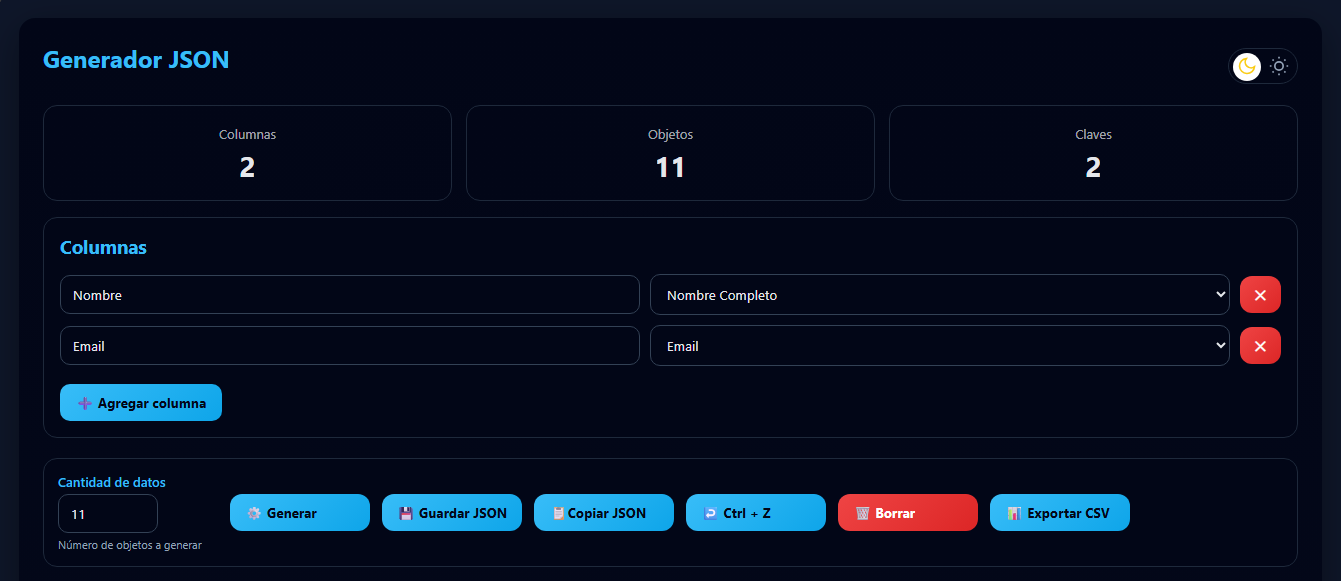
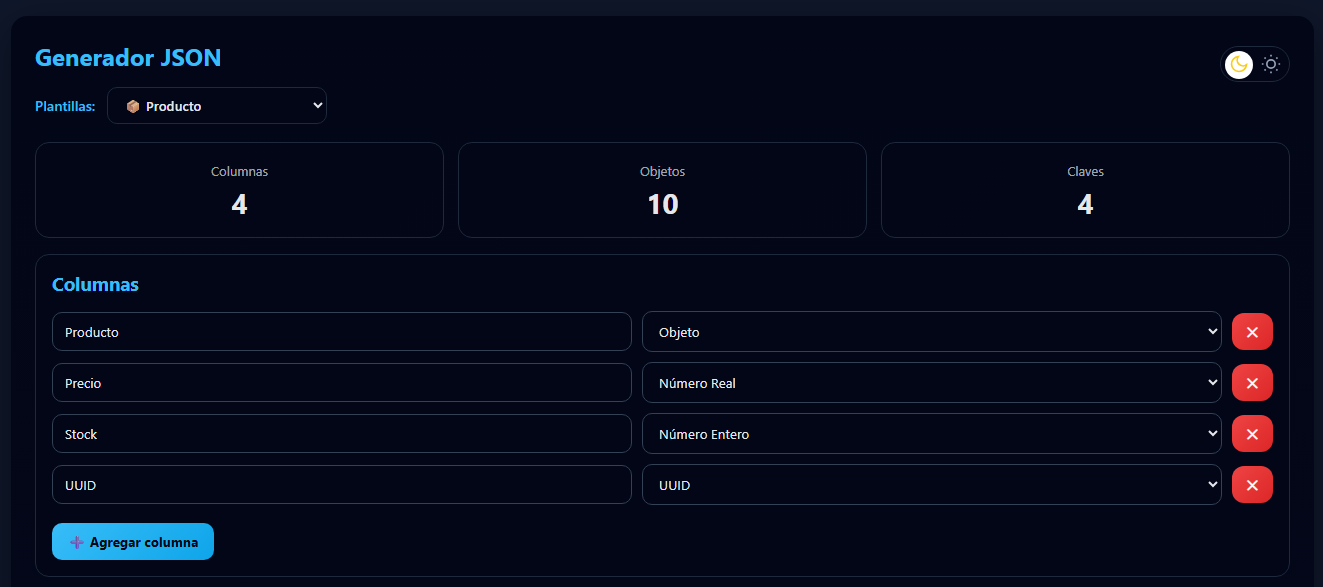
añadidas las plantillas

diff --git a/js/react-app.js b/js/react-app.js
@@ -296,6 +296,28 @@ function Tabla({ data }) {
 }
 
 
+const PLANTILLAS = {
+    "Usuario Básico": [
+        { nombre: "Nombre", tipo: "Nombre Completo" },
+        { nombre: "Email", tipo: "Email" },
+        { nombre: "Telefono", tipo: "Numero Telefonico" },
+        { nombre: "UUID", tipo: "UUID" },
+        { nombre: "FechaNacimiento", tipo: "Fecha" }
+    ],
+    "Dirección": [
+        { nombre: "Ciudad", tipo: "Ciudad" },
+        { nombre: "CodigoPostal", tipo: "Codigo Postal" },
+        { nombre: "IBAN", tipo: "IBAN" }
+    ],
+    "Producto": [
+        { nombre: "Producto", tipo: "Objeto" },
+        { nombre: "Precio", tipo: "Numero Real" },
+        { nombre: "Stock", tipo: "Numero Entero" },
+        { nombre: "UUID", tipo: "UUID" }
+    ]
+};
+
+
 /* =========================
    APP
 ========================= */
@@ -489,6 +511,24 @@ function App() {
                     {toast.msg}
                 </div>
             )}
+
+            <div className="plantillas-container">
+                <label>Plantillas:</label>
+                <select
+                    onChange={(e) => {
+                        const sel = e.target.value;
+                        if (sel && PLANTILLAS[sel]) {
+                            setColumnas(PLANTILLAS[sel]);
+                        }
+                    }}
+                >
+                    <option value="">📦 Seleccionar plantilla</option>
+                    <option value="Usuario Básico">👤 Usuario Básico</option>
+                    <option value="Producto">📦 Producto</option>
+                    <option value="Dirección">📍 Dirección</option>
+
+                </select>
+            </div>
 
 
             <Stats columnas={columnas} data={data} />

diff --git a/css/style.css b/css/style.css
@@ -956,3 +956,64 @@ button:hover {
 button:active {
   transform: translateY(0);
 }
+
+/* =========================
+   PLANTILLAS (BASE)
+========================= */
+
+.plantillas-container {
+  display: flex;
+  align-items: center;
+  gap: 12px;
+  margin-bottom: 18px;
+}
+
+.plantillas-container label {
+  font-weight: 600;
+  font-size: 14px;
+}
+
+.plantillas-container select {
+  min-width: 220px;
+  padding: 8px 12px;
+  border-radius: 10px;
+  font-weight: 600;
+  cursor: pointer;
+}
+
+body.dark .plantillas-container label {
+  color: #38bdf8;
+}
+
+body.dark .plantillas-container select {
+  background: #020617;
+  color: #e5e7eb;
+  border: 1px solid #1e293b;
+}
+
+
+/* =========================
+   PLANTILLAS – LIGHT MODE
+========================= */
+
+body.light .plantillas-container label {
+  color: #2563eb;
+}
+
+body.light .plantillas-container select {
+  background: #ffffff;
+  color: #1f2937;
+  border: 1px solid #d1d5db;
+  box-shadow: 0 2px 6px rgba(0,0,0,.04);
+}
+
+body.light .plantillas-container select:hover {
+  border-color: #2563eb;
+}
+
+body.light .plantillas-container select:focus {
+  outline: none;
+  border-color: #2563eb;
+  box-shadow: 0 0 0 2px rgba(37,99,235,.15);
+}
+
